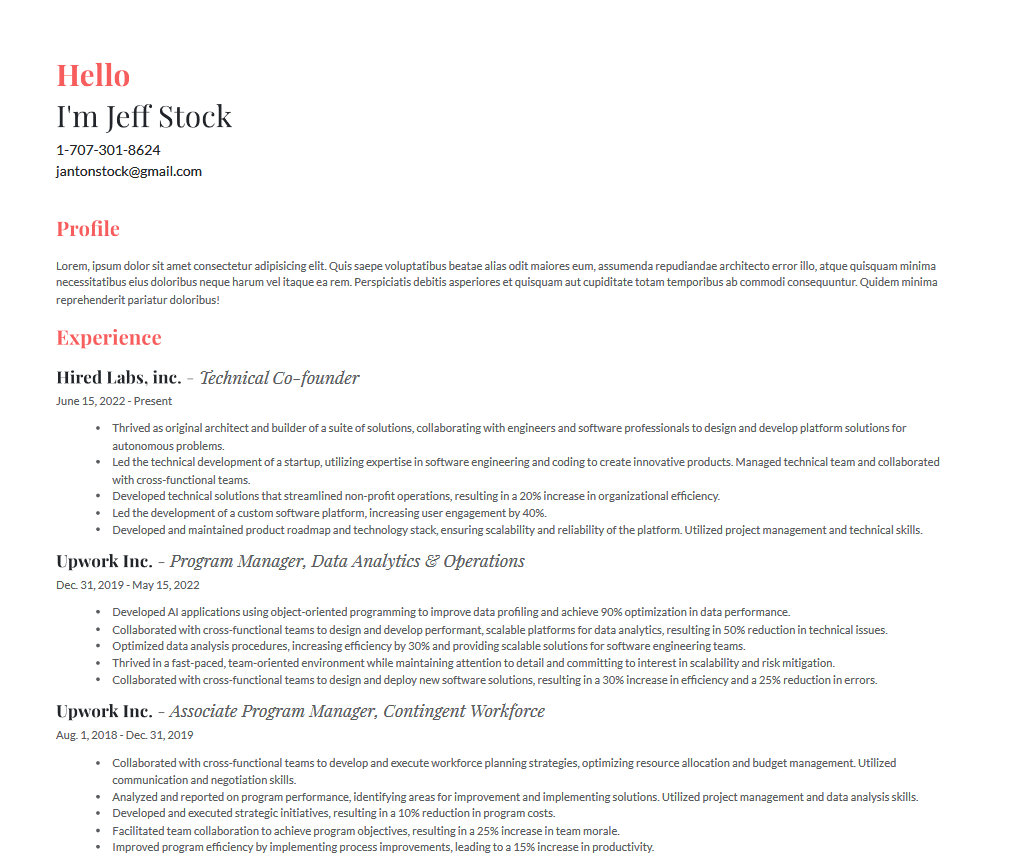
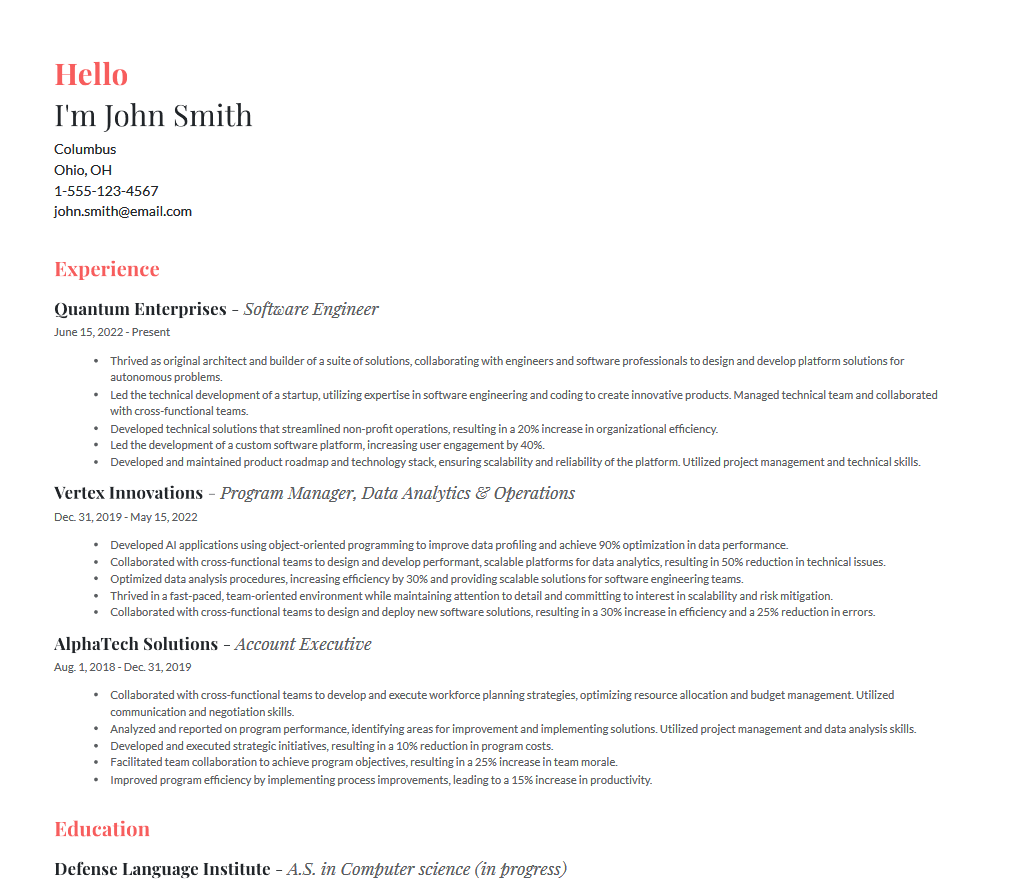
final tweaks, anonymous pdf previews

Changed region(s): [[0.0307, 0.0622, 0.9199, 1.0]]

diff --git a/resume/templates/resume/resume_seriff.html b/resume/templates/resume/resume_seriff.html
@@ -16,12 +16,14 @@
         <h5>{{job.participant.experience_set.first.position  }}</h5>
         <!-- Overview  -->
         {% if "overview" in form.sections.value %}
-        <div class="">{{overview.text}}</div>
+        <div class="text-muted">{{overview.text}}</div>
         {% endif %}
     </div>
     <div class="col-4 ">
-        <div>{{job.participant.phone}}</div>
-        <div>{{job.participant.email}}</div>
+        <div>{{participant.location.city}}</div>
+        <div>{{participant.location.state}}</div>
+        <div class="fw-bolder">{{job.participant.phone}}</div>
+        <div class="fw-bolder">{{job.participant.email}}</div>
     </div>
 </div>
 <div class="row">
@@ -29,10 +31,10 @@
         {% if bullets_content == "skills" %}
         <div class="row">
             <div class="col">
-                <h4 class="blue ">Skills</h4>
+                <h4 class="blue mb-3 fw-bold">Skills</h4>
                 {% for skill in skills_with_bullets %}
                 <h4 class="fw-bolder">{{skill.obj}}</h4>
-                <ul  class="list-unstyled">
+                <ul  class="list-unstyled mb-3">
                     {% for weighted_bullet in skill.bullets %}
                     {% include 'resume/partials/weighted_bullet.html' %}
                 {% endfor %}
@@ -41,11 +43,11 @@
         </div>
         {% endfor %}
         {% elif bullets_content == "chronological" %}
-        <h4 class="blue mb-4">Experience</h4>
+        <h4 class="blue mb-3 fw-bold">Experience</h4>
         {% for experience in chronological_experiences %}
             <div class="fs-5"><span class="fw-bold">{{experience.obj.org}}</span> -  <span class="fst-italic">{{experience.obj.position}}</span></div>
-            <div class="text-muted ">{{ experience.obj.start_date|date }} - {{experience.obj.end_date | date|default:"Present"}}</div>
-            <ul  class="list-unstyled text-muted mb-5">
+            <div class="text-muted  mb-2">{{ experience.obj.start_date|date }} - {{experience.obj.end_date | date|default:"Present"}}</div>
+            <ul  class="list-unstyled text-muted mb-3">
                 {% for weighted_bullet in experience.bullets %}
                         {% include 'resume/partials/weighted_bullet.html' %}
                 {% endfor %}
@@ -56,9 +58,9 @@
         {% if "education" in form.sections.value and education %}
         <div  class="row my-4">
             <div class="col">
-                <h4 class="blue ">Education</h4>
+                <h4 class="blue  fw-bold mb-3">Education</h4>
                 {% for edu in education %}
-                    <h6>{{ edu.org }} - <span class="text-muted fst-italic">{{ edu.degree.abbr }} in {{ edu.concentration }}</span></h6>
+                    <h6>{{ edu.org }} - <span class="text-muted fst-italic">{{ edu.degree.abbr }} in {{ edu.concentration }} {{ edu.get_status_display }}</span></h6>
                 {% endfor %}
             </div>
         </div>
@@ -67,15 +69,15 @@
     <div class="col-4">
         {% if "skills" in form.sections.value %}
         <div class="mb-4">
-                <h4 class="blue">Skills</h3>
+                <h4 class="blue  fw-bold mb-3">Skills</h3>
                 {% for skill in skills %}
-                <div class=" text-muted ">{{skill}}</div>
+                <div class=" text-muted mb-2">{{skill}}</div>
                 {% endfor %}
             </div>
         {% endif %}
         <!-- Awards  -->
         {% if "certifications" in form.sections.value and certifications %}
-            <h4 class="blue ">Awards</h4>
+            <h4 class="blue fw-bold mb-3">Awards</h4>
             {% for cert in certifications %}
             <div class="text-muted">{{cert}}</div>
             {% endfor %}
@@ -104,9 +106,11 @@
 </style>
 {% endblock styles %}
 {% block colors %}
+<style>
 .blue {
     color: #2079c7
 }
+</style>
 {% endblock colors %}
 
 

diff --git a/cold_apply/templates/cold_apply/configure_tailored_resume.html b/cold_apply/templates/cold_apply/configure_tailored_resume.html
@@ -110,7 +110,15 @@ sections=Array.from(document.querySelectorAll('input[name=\'sections\']:checked'
                 Resume will list applicant's skills as section headings, bullet points that have been tagged as demonstrating a skill will be listed below
                 each skill heading. 
             </p>
-            <p>Bullet points are sorted according to weighting of relevance to the job's description. If a bullet point is tagged as multiple skills, it will only be shown once under the first skill found.</p>
+            <p>Bullet points are sorted according to weighting of relevance to the job's description. If a bullet point is tagged as multiple skills, it will only be shown once under the first skill found.
+                
+            </p>
+            <p> 
+                <strong>If you have also selected the seperate "skills" section in your chosen template, this will only contain skills that have no been listed here in the main content section to 
+                    avoid duplication.
+                </strong>
+            </p>
+
             
         </div>
     </div>
@@ -148,13 +156,15 @@ sections=Array.from(document.querySelectorAll('input[name=\'sections\']:checked'
     <hr>
     <div class="rol">
         <div class="col">
-            <h5 class="fw-semibold">4. Select Output</h5>
-            <label for="id_no_colors">
-                {{form.no_colors}}
-                No colors
-            </label>
+            <h5 class="fw-semibold">4. Select Output Format</h5>
+            <div class="mb-3">
+                <label for="id_no_colors">
+                    {{form.no_colors}}
+                    No colors
+                </label>
+            </div>
             
-            <p>Preview will display bullet weightings and allow inline editting of text content.</p>
+            <p><strong>"Preview Content"</strong> will display bullet weightings and allow inline editting of text content.</p>
             <button class="btn btn-primary" type="submit" :disabled="bullets_content === 'None'">Generate PDF Resume</button>
             <button class="btn btn-secondary" @click="preview='True'" type="submit">Preview Content</button>
         </div>

diff --git a/resume/templates/resume/resume_swiss.html b/resume/templates/resume/resume_swiss.html
@@ -6,14 +6,17 @@
     <!-- Name  -->
     <div  class="row mb-4">
         <div class="col-4">
-            <h3 class="fw-bold">{{job.participant.name}}</h3>
-            <p>{{job.participant.experience_set.first.position  }}</p>
+            <h3 class="fw-bold mb-0">{{job.participant.first_name}}</h3>
+            <h3 class="fw-bold mb-4">{{job.participant.last_name}}</h3>
+            <h5 class="accent fw-bold">{{job.participant.experience_set.first.position  }}</h5>
         </div>
         <div class="col-8">
             <div style="width:100%; border-top:3px solid black;" class="mb-3"></div>
-            <h6 class="fw-bolder">{{job.participant.name}}</h6>
-            <div>{{job.participant.phone}}</div>
-            <div>{{job.participant.email}}</div>
+            <h6 class="fw-bolder mb-0">{{job.participant.first_name}} {{job.participant.last_name}}</h6>
+            <div>{{participant.location.city}}</div>
+            <p>{{participant.location.state}}</p>
+            <div  class="accent">{{job.participant.phone}}</div>
+            <div  class="accent">{{job.participant.email}}</div>
         </div>
     </div>
     <!-- Overview  -->
@@ -80,7 +83,7 @@
         <div class="col-8">
             <div style="width:100%; border-top:3px solid black;" class="mb-3"></div>
         {% for edu in education %}
-            <h6 ><span class="fw-bolder">{{ edu.org }}</span> / {{ edu.degree.abbr }} in {{ edu.concentration }}</h6>
+            <h6 ><span class="fw-bolder">{{ edu.org }}</span> / {{ edu.degree.abbr }} in {{ edu.concentration }} {{ edu.get_status_display }} </h6>
         {% endfor %}
         </div>
     </div>
@@ -109,3 +112,11 @@
 
 
 
+{% block colors %}
+<style>
+    .accent {
+        color: #f2511b;
+    }
+</style>
+
+{% endblock colors %}

diff --git a/resume/templates/resume/resume_coral.html b/resume/templates/resume/resume_coral.html
@@ -17,10 +17,12 @@
     <div  class="row mb-4">
         <div class="col">
             <h1 class="accent fw-bold  playfair">Hello</h1>
-            <h1 class=" playfair">I'm {{job.participant.name}}</h1>
+            <h1 class=" playfair">I'm {{participant.name}}</h1>
 
-            <div class="fs-5">{{job.participant.phone}}</div>
-            <div class="mb-4 fs-5">{{job.participant.email}}</div>
+            <div class="fs-5">{{participant.location.city}} </div>
+            <div class="fs-5">{{participant.location.state}} </div>
+            <div class="fs-5">{{participant.phone}}</div>
+            <div class="mb-4 fs-5">{{participant.email}}</div>
         </div>
     </div>
     <!-- Skills  -->
@@ -71,7 +73,7 @@
         <div class="col">
             <h3 class="playfair mb-4  accent fw-bold">Education</h3>
             {% for edu in education %}
-                <h4  class="playfair"><span class="fw-bold">{{ edu.org }}</span> - <span class="text-muted fst-italic">{{ edu.degree.abbr }} in {{ edu.concentration }}</span></h4>
+                <h4  class="playfair"><span class="fw-bold">{{ edu.org }}</span> - <span class="text-muted fst-italic">{{ edu.degree.abbr }} in {{ edu.concentration }} {{ edu.get_status_display }}</span></h4>
             {% endfor %}
         </div>
     </div>
@@ -115,8 +117,10 @@
 {% endblock styles %}
 
 {% block colors %}
+<style>
 .accent {
     color: #f75d5d
 }
+</style>
 {% endblock colors %}
 

diff --git a/resume/templates/resume/resume_standard.html b/resume/templates/resume/resume_standard.html
@@ -5,7 +5,8 @@
     <header>
         <div class="text-center">
             <h1>{{ participant.name }}</h1>
-            <p>{{ participant.email }} | {{ participant.phone }}</p>
+            <div>{{ participant.email }} | {{ participant.phone }}</div>
+            <p>{{participant.location.city }} | {{ participant.location.state }} | {{ participant.location.country }}</p>
         </div>
     </header>
     {% if "overview" in form.sections.value %}
@@ -21,7 +22,7 @@
             <div>
                 <div class="d-flex justify-content-between">
                     <div>
-                        <div class="fs-6 fw-bolder">{{ experience.obj.position }} at </div>
+                        <div class="fs-6 fw-bolder">{{ experience.obj.position }} </div>
                         <div class="fst-italic">{{ experience.obj.org }}</div>
                     </div>
                     <div class="fst-italic">
@@ -63,7 +64,7 @@
     {% if education %}
     <ul>
         {% for edu in education %}
-           <li> {{ edu.degree.abbr }} in {{ edu.concentration }} at {{ edu.org }}</li>
+           <li> {{ edu.degree.abbr }} in {{ edu.concentration }} at {{ edu.org }} {{ edu.get_status_display }}</li>
         {% endfor %}
     </ul>
     {% else %}

diff --git a/resume/templates/resume/resume_arial.html b/resume/templates/resume/resume_arial.html
@@ -9,6 +9,7 @@
             <h2 class="fw-bold accent">{{job.participant.name}}</h2>
             <h5>{{job.participant.experience_set.first.position  }}</h5>
             <div>{{job.participant.phone}} / {{job.participant.email}}</div>
+            <div>{{participant.location.city}}, {{participant.location.state}}</div>
         </div>
     </div>
     <!-- Overview  -->
@@ -68,7 +69,7 @@
         </div>
         <div class="col-9">
         {% for edu in education %}
-            <h6 ><span class="fw-bolder">{{ edu.org }}</span> / {{ edu.degree.abbr }} in {{ edu.concentration }}</h6>
+            <h6 ><span class="fw-bolder">{{ edu.org }}</span> / {{ edu.degree.abbr }} in {{ edu.concentration }} {{ edu.get_status_display }}</h6>
         {% endfor %}
         </div>
     </div>

diff --git a/resume/templates/resume/resume_modern_writer.html b/resume/templates/resume/resume_modern_writer.html
@@ -16,6 +16,8 @@
 
     <div  class="row mb-4 oswald">
         <div class="col">
+            <div class="text-muted fs-5">{{participant.location.city}}</div>
+            <div class="text-muted fs-5">{{participant.location.state}}</div>
             <div class="accent fs-5">{{job.participant.phone}}</div>
             <div class="accent mb-4 fs-5">{{job.participant.email}}</div>
             <h1>{{job.participant.name}}</h1>
@@ -113,7 +115,9 @@
 
 
 {% block colors %}
+<style>
 .accent {
     color: #e91d63
 }
+</style>
 {% endblock colors %}

diff --git a/resume/templates/resume/base_resume.html b/resume/templates/resume/base_resume.html
@@ -35,7 +35,8 @@
     </style>
     {% block styles %}
     {% endblock styles %}
-    {% if form.no_color.value is True %}
+    
+    {% if form.no_colors.value is False %}
         {% block colors %}{% endblock colors %}
     {% endif %}
 

diff --git a/cold_apply/migrations/0019_auto_20230531_1122.py b/cold_apply/migrations/0019_auto_20230531_1122.py
@@ -5,10 +5,13 @@ from django.db import migrations
 
 def update_names(apps, schema_editor):
     for participant in apps.get_model("cold_apply", "Participant").objects.all():
-        first_name, last_name = participant.name.split(" ")
-        participant.first_name = first_name
-        participant.last_name = last_name
-        participant.save()
+        try:
+            first_name, last_name = participant.name.split(" ")
+            participant.first_name = first_name
+            participant.last_name = last_name
+            participant.save()
+        except ValueError:
+            pass
 
 
 class Migration(migrations.Migration):

diff --git a/cold_apply/views.py b/cold_apply/views.py
@@ -587,9 +587,12 @@ def weigh_bullets(bullets, job, keywords):
 @require_http_methods(["POST"])
 def tailored_resume_view(request, job_pk):
     job = get_object_or_404(
-        Job.objects.select_related("title", "participant").prefetch_related(
-            "keywordanalysis_set"
-        ),
+        Job.objects.select_related(
+            "title",
+            "participant",
+            "participant__location__country",
+            "participant__location__state",
+        ).prefetch_related("keywordanalysis_set"),
         pk=job_pk,
     )
     job.participant.experience_set.first()

diff --git a/cold_apply/admin.py b/cold_apply/admin.py
@@ -2,6 +2,7 @@ from django.contrib import admin
 
 # Register your models here.
 from .models import (
+    Location,
     Participant,
     Interaction,
     Job,
@@ -153,6 +154,11 @@ class KeywordAnalysisAdmin(admin.ModelAdmin):
 
 @admin.register(Skill)
 class SkillAdmin(admin.ModelAdmin):
+    pass
+
+
+@admin.register(Location)
+class LocationAdmin(admin.ModelAdmin):
     pass
 
 

diff --git a/resume/models.py b/resume/models.py
@@ -100,6 +100,9 @@ class Education(models.Model):
         max_length=50,
     )
 
+    def get_status_display(self):
+        return f"(in progress)" if self.status == self.EducationStatus.COMPLETED else ""
+
     def __str__(self):
         return "{}: {}, {}".format(self.org, self.degree, self.concentration)
 
